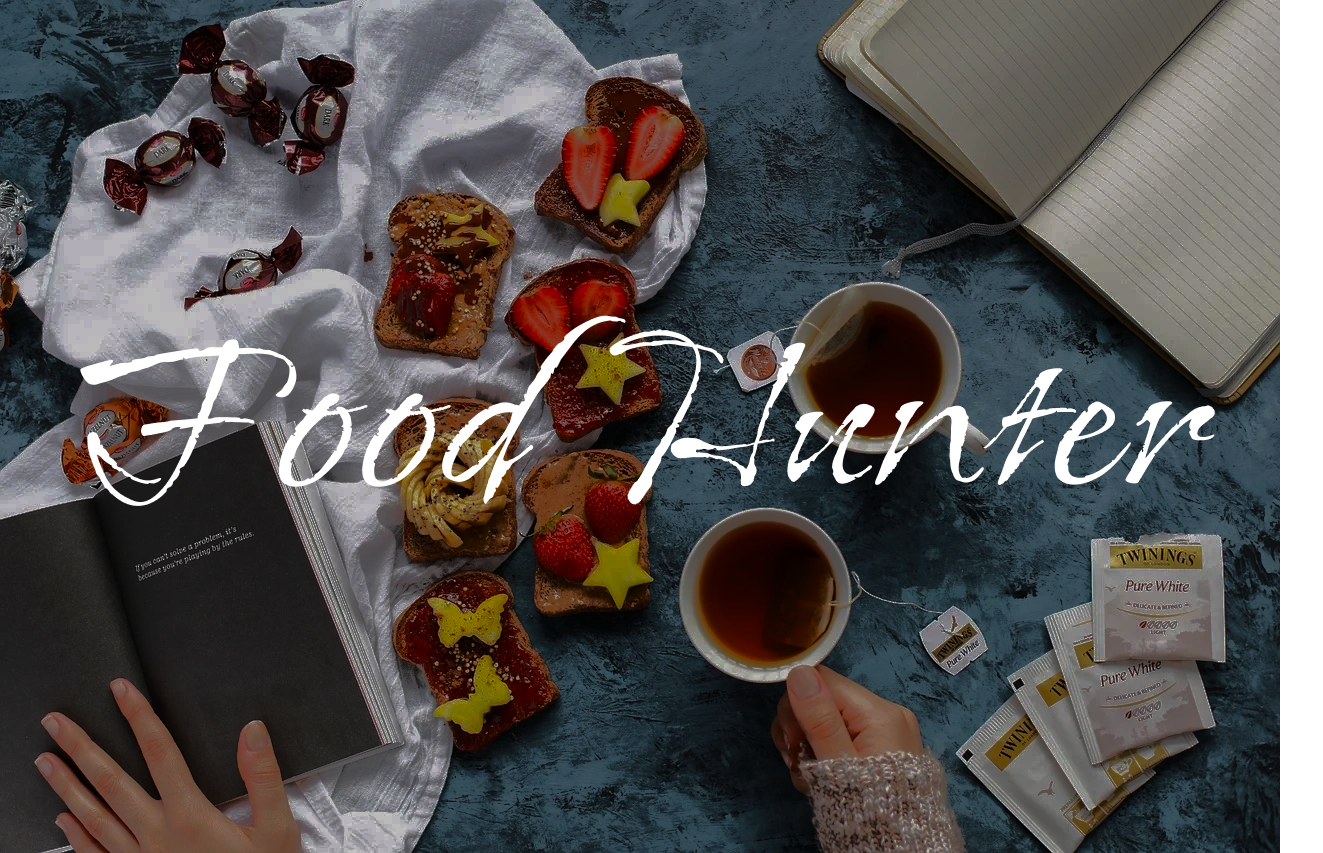
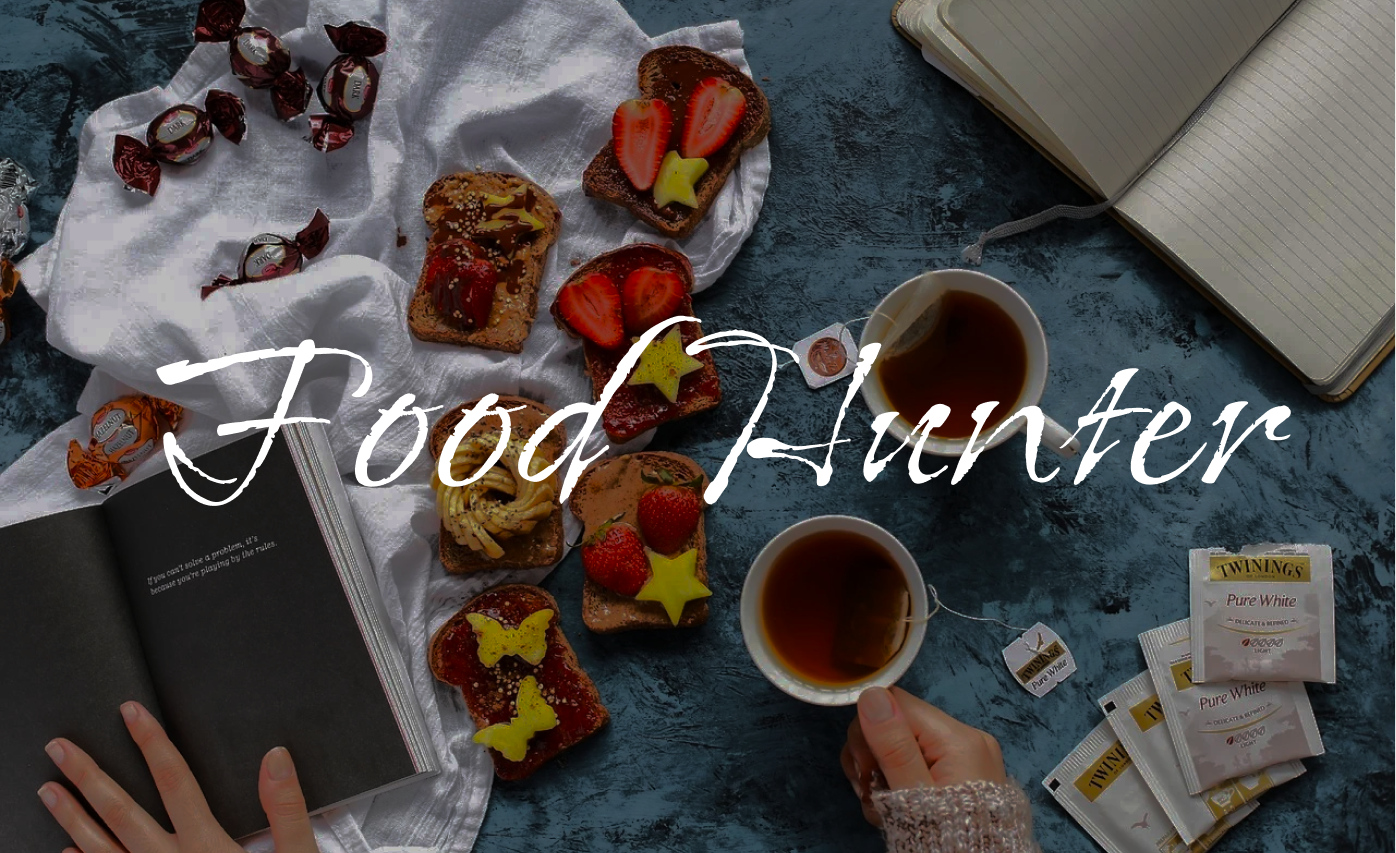
[update] Main page 이미지 변경

diff --git a/pages/store/index.jsx b/pages/store/index.jsx
@@ -1,27 +1,28 @@
 import { useState } from 'react';
 import StoreList from '../../components/stores/StoreList';
 import { useRouter } from 'next/router';
-import { Grid, Typography } from '@mui/material';
+import { Grid, Typography, Container } from '@mui/material';
 
 export default function StoreListPage(props) {
   const router = useRouter();
   const [isModal, setIsModal] = useState(false);
 
   return (
-    <Grid item xs zeroMinWidth paddingX={15}>
-      <Typography
-        variant='h4'
-        component='h2'
-        paddingBottom={2}
-        marginBottom={8}
-        borderBottom='5px solid #2E3B55'
-        color='#253048'
-      >
-        <strong>Hunting List</strong>
-      </Typography>
-
-      <StoreList stores={props.stores} setIsModal={setIsModal} />
-    </Grid>
+    <Container maxWidth='xl'>
+      <Grid item zeroMinWidth>
+        <Typography
+          variant='h4'
+          component='h2'
+          paddingBottom={2}
+          marginBottom={8}
+          borderBottom='5px solid #2E3B55'
+          color='#253048'
+        >
+          <strong>Hunting List</strong>
+        </Typography>
+        <StoreList stores={props.stores} setIsModal={setIsModal} />
+      </Grid>
+    </Container>
   );
 }
 

diff --git a/pages/index.jsx b/pages/index.jsx
@@ -1,11 +1,10 @@
 import { mainImg } from '../imgs';
 import Image from 'next/image';
-import { Grid } from '@mui/material';
 
-export default function HomePage(props) {
+export default function HomePage() {
   return (
-    <Grid item>
-      <Image src={mainImg} alt='main_image' width={1200} height={680} />
-    </Grid>
+    <>
+      <Image src={mainImg} alt='main_image' width={1300} height={680} />
+    </>
   );
 }
